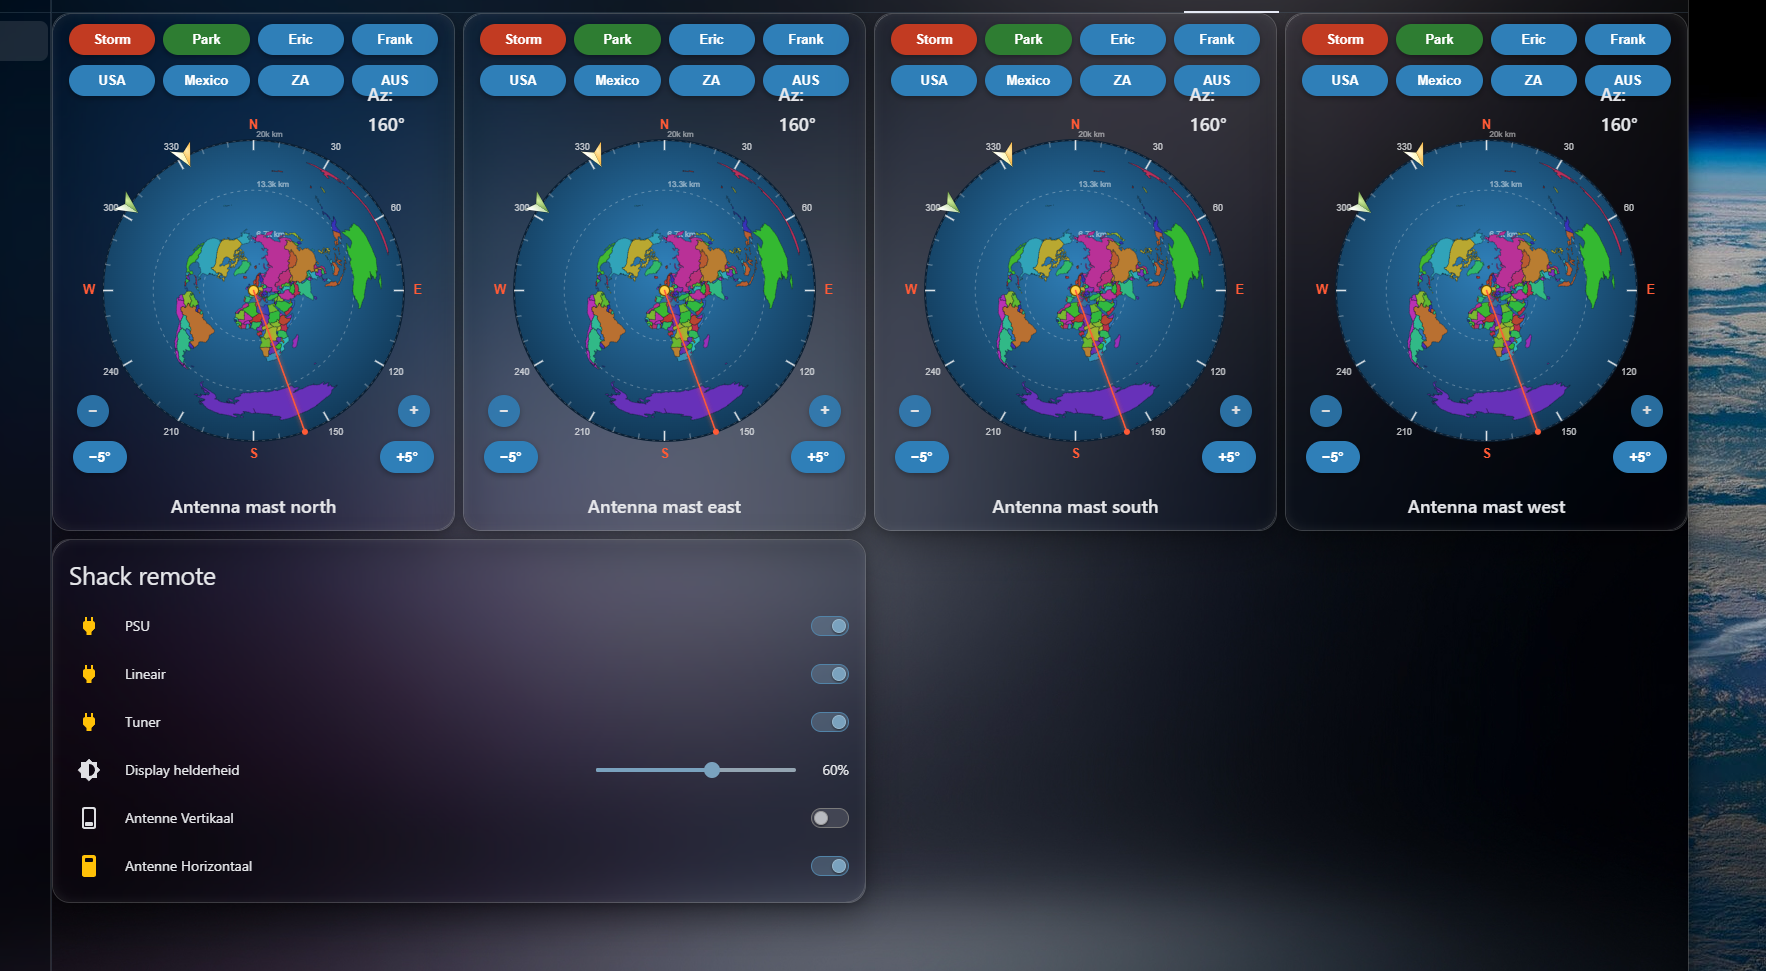
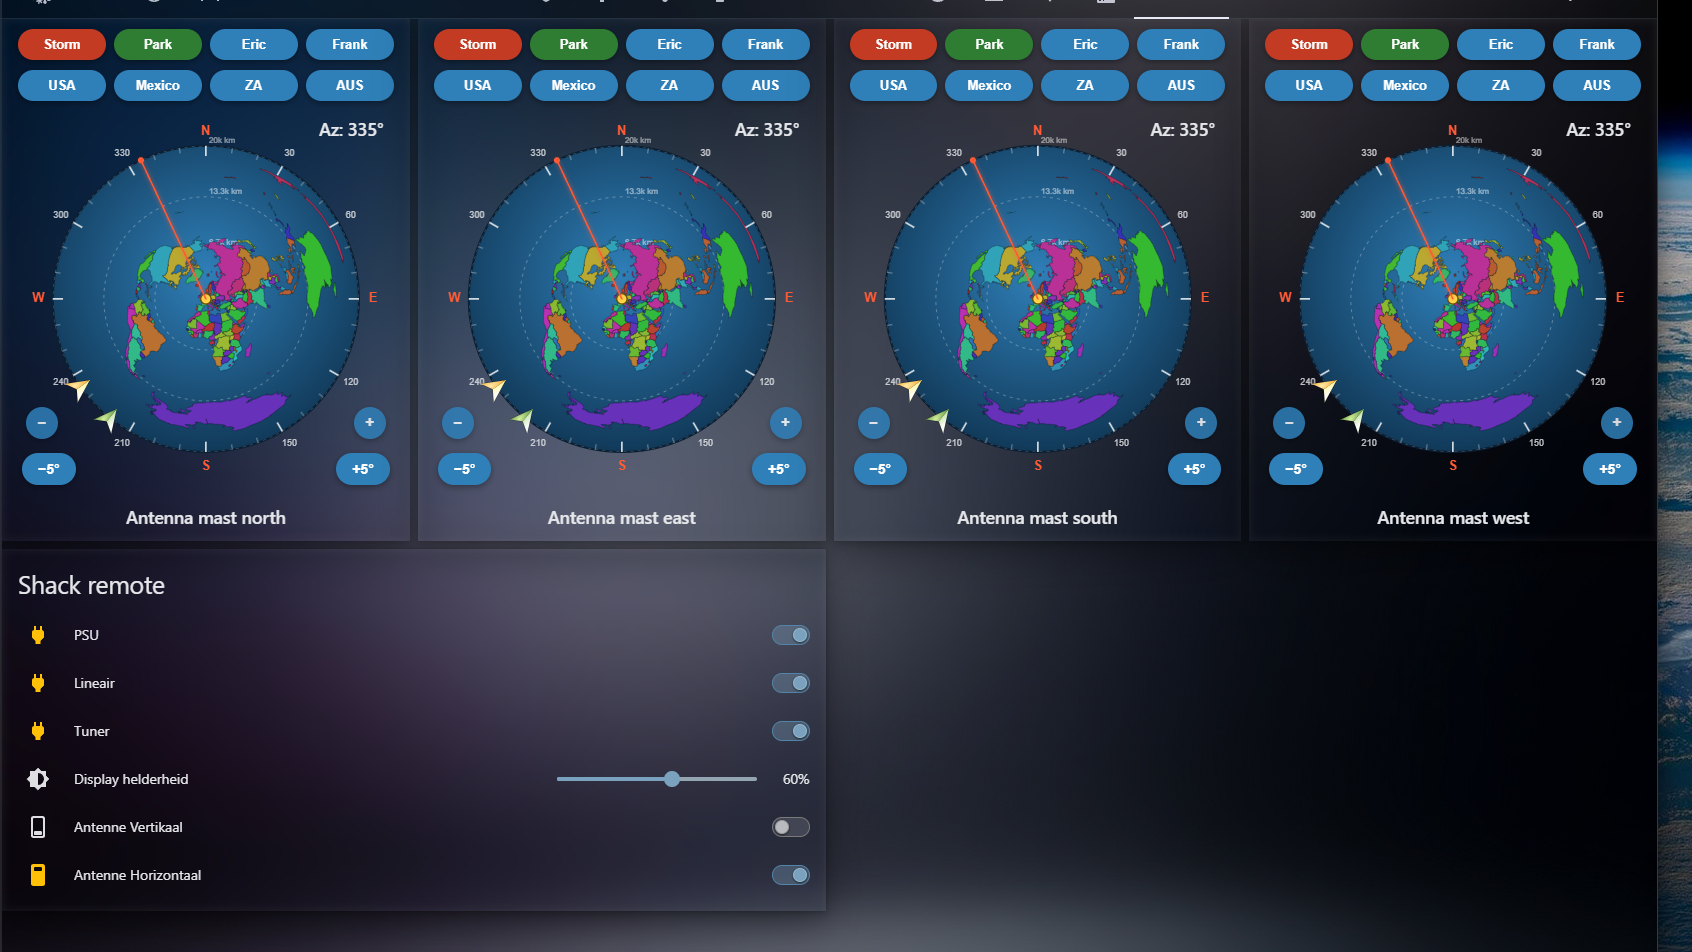
Fix the azimuth readout wrapping onto two lines
Absolute-positioning it near the card's right edge made the browser's
shrink-to-fit width calculation wrap "Az:" and the degree value onto
separate lines; white-space: nowrap keeps it on one. Also updates the
multi-rotor screenshot in the README to the corrected layout.

diff --git a/custom_components/ham_rotator/www/ham-rotator-card.js b/custom_components/ham_rotator/www/ham-rotator-card.js
@@ -314,6 +314,7 @@
             left: calc(10px + 0.875 * (100% - 20px));
             top: 10.5%;
             transform: translate(-50%, -100%);
+            white-space: nowrap;
             font-size: clamp(0.85rem, 4.3cqw, 1.6rem);
             font-weight: 600;
             color: var(--primary-text-color);

diff --git a/custom_components/ham_rotator/const.py b/custom_components/ham_rotator/const.py
@@ -83,4 +83,4 @@ CARD_URL_BASE = "/ham_rotator_files"
 CARD_FILENAME = "ham-rotator-card.js"
 LAND_DATA_FILENAME = "land-110m.json"
 
-INTEGRATION_VERSION = "2.4.4"
+INTEGRATION_VERSION = "2.4.5"
